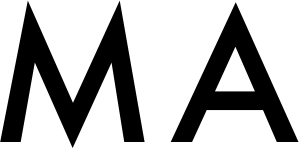
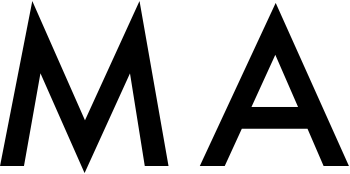
final Mayfield behind the scenes post

diff --git a/articles/voicing-the-keyboard/article_style.css b/articles/voicing-the-keyboard/article_style.css
@@ -433,9 +433,16 @@ $breakpoints: (
     .article_body .sketch.sketch_three {
       margin-bottom: 5%; } }
 .article_body .ma_illustration {
-  width: 150px;
+  width: 175px;
   float: left;
-  margin: 0 1em 0 0; }
+  margin: .5em 1em 0 0;
+  display: inline-block; }
+  @media screen and (min-width: 550px) and (max-width: 1024px) {
+    .article_body .ma_illustration {
+      width: 150px; } }
+  @media screen and (max-width: 549px) {
+    .article_body .ma_illustration {
+      width: 130px; } }
 .article_body .logo_square {
   width: 22.5%;
   margin: 0 0 2%; }

diff --git a/index.html b/index.html
@@ -32,6 +32,11 @@
 		<section class="blog_index content_width">
 			
 			<div class="article_link">
+				<time datetime="2016-09-30">30 SEP 2016</time> 
+				<a href="/article/voicing-the-keyboard">Voicing the Keyboard: The Branding of Mayfield Singers</a>
+			</div>
+			
+			<div class="article_link">
 				<time datetime="2016-05-04">04 MAY 2016</time> 
 				<a href="/article/because-neon">Because Neon!</a>
 			</div>

diff --git a/articles/voicing-the-keyboard/article_style.scss b/articles/voicing-the-keyboard/article_style.scss
@@ -119,9 +119,17 @@ $image_map: map-merge($image_map, $article_images);
 	}
 	
 	.ma_illustration {
-		width: 150px;
+		width: 175px;
 		float: left;
-		margin: 0 1em 0 0;
+		margin: .5em 1em 0 0;
+		display: inline-block;
+		
+		@include viewport(m){
+			width: 150px;
+		}
+		@include viewport(s){
+			width: 130px;
+		}
 	}
 	
 	.logo_square { 
